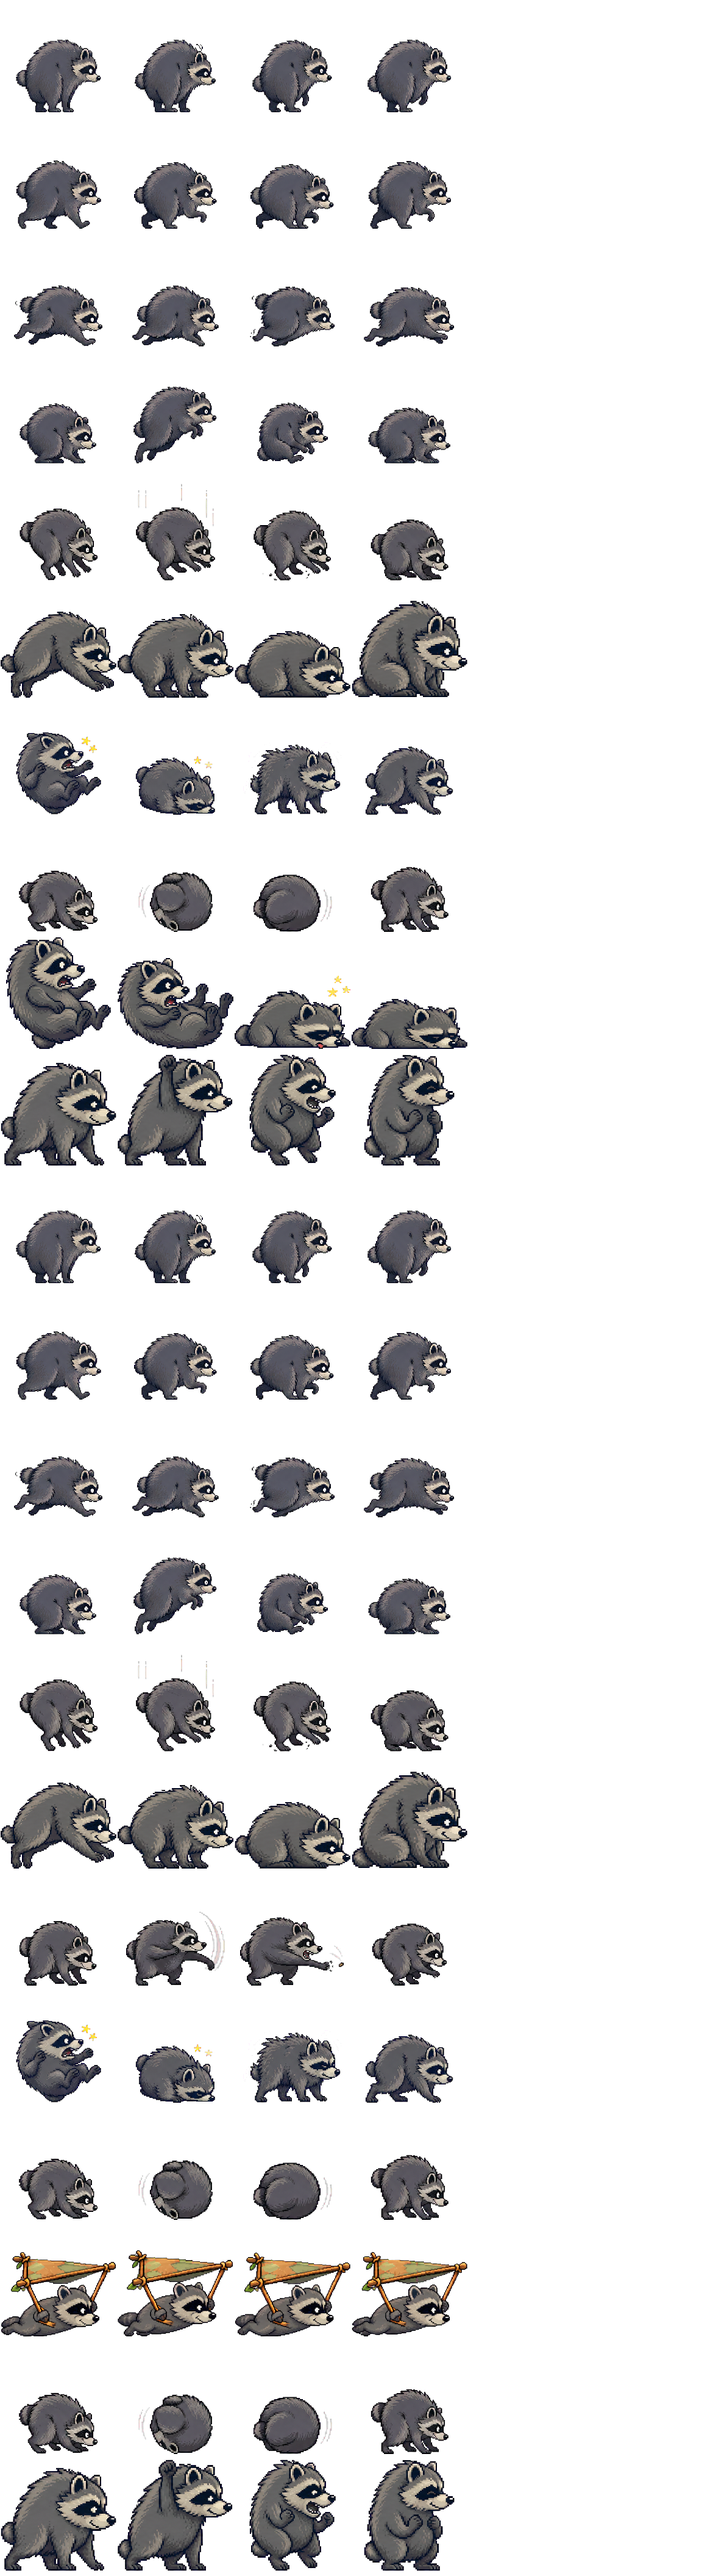
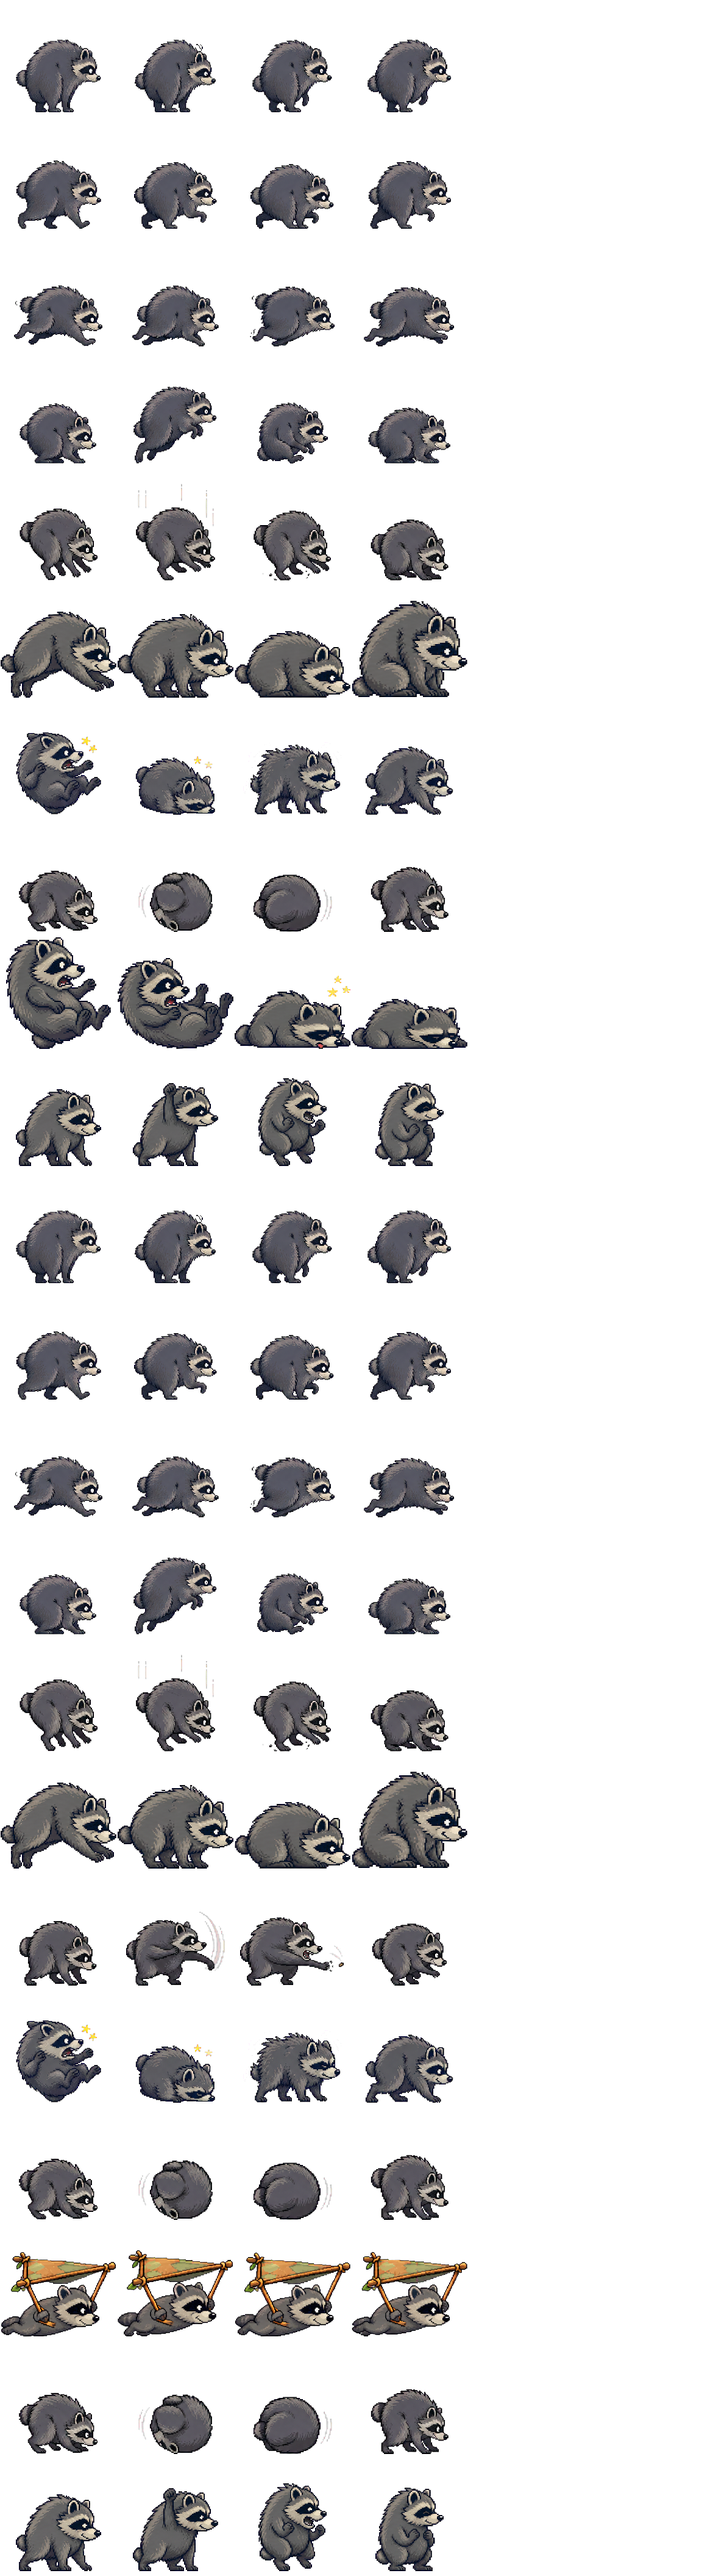
fix: normalize Jimothy victory scale

diff --git a/app/trash-dash-game.tsx b/app/trash-dash-game.tsx
@@ -30,6 +30,7 @@ import {
   PLAYER_ANIMATIONS,
   animationFrame,
   isTailSwipeActive,
+  playerAnimationDrawRect,
 } from "./player-animation.mjs";
 import { getPlayableCharacter, PLAYABLE_CHARACTERS, selectCharacterAnimation } from "./playable-character.mjs";
 import {
@@ -990,6 +991,7 @@ export function TrashDashGame() {
     const backgroundTest = devParams?.get("backgroundTest") ?? null;
     const powerupTest = devParams?.get("powerupTest") ?? null;
     const victoryTest = devParams?.get("victoryTest") ?? null;
+    const victoryTransitionTest = devParams?.get("victoryTransitionTest") === "jimothy";
     const encounterTest = devParams?.get("encounterTest") ?? null;
     const levelTwoRequested = devParams?.get("level") === "2"
       || levelTest === "level2-start"
@@ -1098,18 +1100,22 @@ export function TrashDashGame() {
         : 215;
       nextWorld.cameraX = powerupTest === "taco" ? 560 : 3320;
     } else if (victoryTest === "level2") {
-      nextWorld.player.x = nextWorld.level.boss.postBossStartX ?? nextWorld.level.boss.arenaEndX;
+      nextWorld.player.x = victoryTransitionTest
+        ? nextWorld.level.exit.x - 219
+        : nextWorld.level.boss.postBossStartX ?? nextWorld.level.boss.arenaEndX;
       nextWorld.player.y = GROUND_Y - 58;
       nextWorld.player.w = 38;
       nextWorld.player.h = 58;
       nextWorld.player.large = true;
       nextWorld.player.glider = 14;
       nextWorld.player.animationName = "large_idle";
-      nextWorld.bossDefeated = true;
+      nextWorld.bossDefeated = !victoryTransitionTest;
       nextWorld.arenaActive = false;
       nextWorld.enemies = [];
       nextWorld.trash = 5;
-      nextWorld.cameraX = nextWorld.level.boss.arenaEndX - 120;
+      nextWorld.cameraX = victoryTransitionTest
+        ? clamp(nextWorld.player.x - WIDTH * 0.36, 0, nextWorld.worldWidth - WIDTH)
+        : nextWorld.level.boss.arenaEndX - 120;
     } else if (victoryTest === "1") {
       nextWorld.player.x = 6350;
       nextWorld.player.y = GROUND_Y - 58;
@@ -1134,6 +1140,16 @@ export function TrashDashGame() {
         ));
         lastFrameRef.current = performance.now();
         changeScreen("playing");
+        if (victoryTransitionTest) {
+          // Development-only consecutive-frame fixture: the player and camera
+          // stay fixed while the ordinary exit condition changes idle to
+          // victory. It does not own any destination size or render exception.
+          window.setTimeout(() => {
+            if (worldRef.current !== nextWorld || screenRef.current !== "playing") return;
+            nextWorld.bossDefeated = true;
+            nextWorld.dumpsterRevealStartedAt = nextWorld.elapsed;
+          }, 1800);
+        }
         tone(520, 0.08);
         window.setTimeout(() => tone(720, 0.12), 80);
       })
@@ -2173,7 +2189,11 @@ export function TrashDashGame() {
         window.setTimeout(() => tone(800, 0.18), 120);
       }
 
-      if (world.arenaActive && world.bossTransition) {
+      const freezeVictoryTransitionCamera = import.meta.env.DEV
+        && new URLSearchParams(window.location.search).get("victoryTransitionTest") === "jimothy";
+      if (freezeVictoryTransitionCamera) {
+        // Hold the authored camera for consecutive before/during visual QA.
+      } else if (world.arenaActive && world.bossTransition) {
         const transition = advanceBossTransition(world.bossTransition, dt, world.level.boss);
         world.cameraX = transition.cameraX;
         world.bossTransition = transition.complete ? null : transition.transition;
@@ -2658,15 +2678,14 @@ export function TrashDashGame() {
         MOTION_CELL,
         MOTION_CELL,
       ] as Frame;
-      const drawW = playerAnimation.drawWidth;
-      const drawH = playerAnimation.drawHeight;
+      const playerDrawRect = playerAnimationDrawRect(player, playerAnimation);
 
       drawSprite(
         frame,
-        playerX + player.w / 2 - drawW / 2,
-        player.y + player.h - drawH + playerAnimation.offsetY,
-        drawW,
-        drawH,
+        playerDrawRect.x - camera,
+        playerDrawRect.y,
+        playerDrawRect.w,
+        playerDrawRect.h,
         player.facing < 0,
         player.hurtTimer <= 0 && player.invulnerable > 0 && Math.floor(player.invulnerable * 18) % 2 ? 0.45 : 1,
         world.selectedCharacterId === "jimothy" ? jimothyHeroMotionRef.current : playerHeroMotionRef.current,
@@ -2723,10 +2742,10 @@ export function TrashDashGame() {
           context.fillStyle = "#fff8b5";
           context.fillText(debugLabel, x + 3, enemy.y - 13);
         }
-        const visualX = playerX + player.w / 2 - drawW / 2;
-        const visualY = player.y + player.h - drawH + playerAnimation.offsetY;
+        const visualX = playerDrawRect.x - camera;
+        const visualY = playerDrawRect.y;
         context.strokeStyle = "#ffe45f";
-        context.strokeRect(visualX, visualY, drawW, drawH);
+        context.strokeRect(visualX, visualY, playerDrawRect.w, playerDrawRect.h);
         context.strokeStyle = "#51ffd6";
         context.strokeRect(playerX, player.y, player.w, player.h);
         context.fillStyle = "#ff58d4";

diff --git a/.superpowers/sdd/2026-08-10-trash-dash-v2-failed-visual-audit-remediation/task-5-report.md b/.superpowers/sdd/2026-08-10-trash-dash-v2-failed-visual-audit-remediation/task-5-report.md
@@ -1,0 +1,97 @@
+# Task 5 Report: Jimothy Victory Normalization
+
+Status: DONE
+
+## Applicable project skills
+
+- Rendering / Asset Integrity
+- Sprite / Art Asset
+- Animation / Motion Sprites
+- Environment Placement / Z-Order
+- Visual QA
+- Browser control for running-game inspection
+
+The canonical registry, every selected skill, and each routed reference were read before implementation. The in-app browser workflow was read before runtime inspection.
+
+## Root cause
+
+Task 1 had already normalized Jimothy's actual runtime destination to 84×84 in small form and 110×110 in large form. There was no existing victory multiplier. The remaining pop came from source scale inside the fixed 192×192 crop: the generic authored-strip path independently expanded each high-resolution victory pose until it nearly filled the cell.
+
+Measured pre-fix atlas alpha bounds were:
+
+- `small_idle:0`: 140×119 at x26..165, y65..183.
+- `small_victory`: 190×170, 189×183, 142×183, and 149×183, all ending on row 183.
+
+The destination and collision stayed constant while the visible body became as much as 35.7% wider and 53.8% taller than the idle source envelope. This is why the supplied runtime reference looked enlarged.
+
+## RED evidence
+
+The production-facing tests were written before the repair. The first focused run failed three gates:
+
+```text
+node --test tests/player-animation.test.mjs tests/jimothy-player-atlas.test.mjs
+
+5 pass, 3 fail
+- victory source was 1774×887 instead of a canonical 768×192 four-cell strip
+- victory frame 0 was 190px wide instead of matching idle's 140px body width
+- playerAnimationDrawRect was absent, so runtime anchor/destination ownership was not testable
+```
+
+The final tests measure real PNG alpha bounds, compare idle/victory destination dimensions, compare source and destination baselines, check bottom-center registration, compare both form scales, preserve the hitbox contract, verify the real runtime consumes the shared helper, and reject victory-side scale/destination overrides.
+
+## Source and atlas repair
+
+- Reframed the four approved Jimothy victory poses into a 4×1 transparent 192px-cell master at one shared nearest-neighbor pixel scale.
+- Preserved the squat rounded gray body, face mask, compact legs, and bob tail. Poses were not independently scaled.
+- New actual visible bounds are 140×126, 140×136, 112×144, and 112×137.
+- Every frame is centered within 1px of x96 and ends at opaque row 183 for logical baseline 184.
+- Added `JIMOTHY_VICTORY_CONTRACT` with the source layout, baseline, bottom-center anchor, 140px canonical side-profile width, 144px victory motion height, and 84/110 form destinations.
+- The builder now extracts exact 192px victory cells and rejects a noncanonical source layout, oversized visible body, baseline drift, or center-anchor drift.
+- The private atlas, private contact sheet, public motion atlas, and public contact sheet rebuild from the same output.
+
+## Runtime contract
+
+`playerAnimationDrawRect(player, animation)` is now the one runtime and debug-overlay owner for player destination geometry. It derives the rectangle only from the selected form animation and the actor's bottom-center anchor. Victory has no draw multiplier, conditional destination, or exception table.
+
+The inventory records `FORM_CANONICAL` 84/110 destinations with an empty `stateExceptions` list. Player collision is unchanged:
+
+- small: 32×46 body, `{ x: 4, y: 3, w: 24, h: 43 }` hitbox;
+- large: 38×58 body, `{ x: 4, y: 4, w: 30, h: 54 }` hitbox.
+
+The source-to-destination scale remains uniform on both axes: 84/192 = 0.4375 for small and 110/192 = 0.5729167 for large. Frame 0 visible width is 61.25 world pixels small and 80.2083 world pixels large before and during the transition. Raised victory poses legitimately extend the motion envelope without changing pixel scale.
+
+## Determinism
+
+Two consecutive `node concepts/jimothy/build-atlas.mjs` runs produced identical hashes:
+
+```text
+jimothy-victory-source.png                 310f514daf21071a5db136ab6761e020e45ebae3b482f9fe396e37891e845a8e
+jimothy-animation-atlas.png                89d9eb8762952e67219a682d616fa94f5e94c586f164d5ebc58e56a1d678dc32
+jimothy-animation-contact-sheet.png        89d9eb8762952e67219a682d616fa94f5e94c586f164d5ebc58e56a1d678dc32
+jimothy-hero-motion.png                     89d9eb8762952e67219a682d616fa94f5e94c586f164d5ebc58e56a1d678dc32
+jimothy-hero-contact-sheet.png              89d9eb8762952e67219a682d616fa94f5e94c586f164d5ebc58e56a1d678dc32
+```
+
+## Running-game Visual QA
+
+Route: `/?victoryTest=level2&victoryTransitionTest=jimothy&visualQa=task5-jimothy-victory&debugVisuals=1`, entered through title and **Start as Jimothy** at the normal 1280×720 desktop viewport.
+
+The development-only transition fixture freezes the authored player/camera position, then enables the ordinary existing exit condition after 1.8 seconds. It owns no animation size or renderer branch. Consecutive evidence:
+
+- `task-5-before-victory.jpg`: `large_idle`, fixed camera/player, yellow 110×110 destination, cyan 38×58 collision, magenta bottom-center ground anchor.
+- `task-5-during-victory.jpg`: `large_victory`, same camera/player, same yellow destination, cyan collision, and magenta anchor.
+
+Observed: the normalized squat/bob-tail Jimothy silhouette transitions without the supplied enlargement, baseline pop, destination pop, collision change, clipping, blur, or warning/error log. The holy dumpster reveal changes as expected after the real victory condition; the camera and player registration remain fixed for comparison.
+
+## Verification
+
+- Focused RED-to-GREEN suite: 16/16 passed.
+- Related player/inventory/asset/victory matrix: 51/51 passed.
+- `npm test`: production build passed; canonical skill validation passed; 315/315 tests passed.
+- `npm run lint`: zero errors; one pre-existing `<img>` performance warning in `trash-dash-game.tsx`.
+- `git diff --check`: passed.
+- Runtime warning/error log: empty.
+
+## Concerns
+
+None blocking. The supplied reference was a dark runtime crop rather than an authoring master, so approved existing victory pixels were normalized instead of redrawn. Unrelated dirty/untracked work was preserved and excluded from Task 5 staging.

diff --git a/docs/visual-audit.md b/docs/visual-audit.md
@@ -1026,3 +1026,31 @@ worktree-preservation evidence is recorded in
   24/24 and the complete Task 4 matrix is 77/77. No visual state size, defeat
   gate, or holy-reveal timing changed, so the prior browser evidence remains
   applicable and no new continuous-play claim is made.
+
+### 2026-08-10 — V2 Task 5 Jimothy victory normalization
+
+- **Root cause:** Task 1 already gave every Jimothy state the canonical 84×84
+  small or 110×110 large destination, but the generic authored-strip builder
+  expanded the high-resolution victory art to as much as 190×183 visible
+  pixels inside its 192px cell. Idle frame 0 is only 140×119, so unchanged
+  destination geometry still produced a large visible body-scale pop.
+- **Source and build repair:** the approved squat, rounded, bob-tail poses now
+  occupy a deterministic 4×1 192px-cell source strip at one shared pixel scale.
+  Their alpha bounds are 140×126, 140×136, 112×144, and 112×137; all are
+  bottom-centered on logical baseline 184. The builder rejects source-layout,
+  envelope, baseline, and center-anchor drift. Two consecutive builds produced
+  identical `89d9eb87…` private/public atlas and contact-sheet hashes.
+- **Runtime contract:** one `playerAnimationDrawRect` helper owns production and
+  debug destination geometry. Idle and victory resolve the same bottom-center
+  84×84 or 110×110 rectangle; inventory declares no state exceptions and the
+  small/large collision profiles remain unchanged. Regression tests measure
+  real atlas alpha bounds and reject renderer-side victory scaling.
+- **Running-game evidence:** the 1280×720 cache-busted Jimothy transition
+  fixture exercised the ordinary exit victory condition at one frozen player
+  and camera position. `task-5-before-victory.jpg` and
+  `task-5-during-victory.jpg` show identical yellow 110×110 destinations,
+  cyan 38×58 collision, magenta ground anchor, and a stable baseline across
+  `large_idle` → `large_victory`. Browser warning/error logs were empty.
+- **Verification:** focused tests passed 16/16, the related matrix passed 51/51,
+  and the production build plus complete default suite passed 315/315. Lint
+  reported zero errors and the pre-existing `<img>` performance warning.
